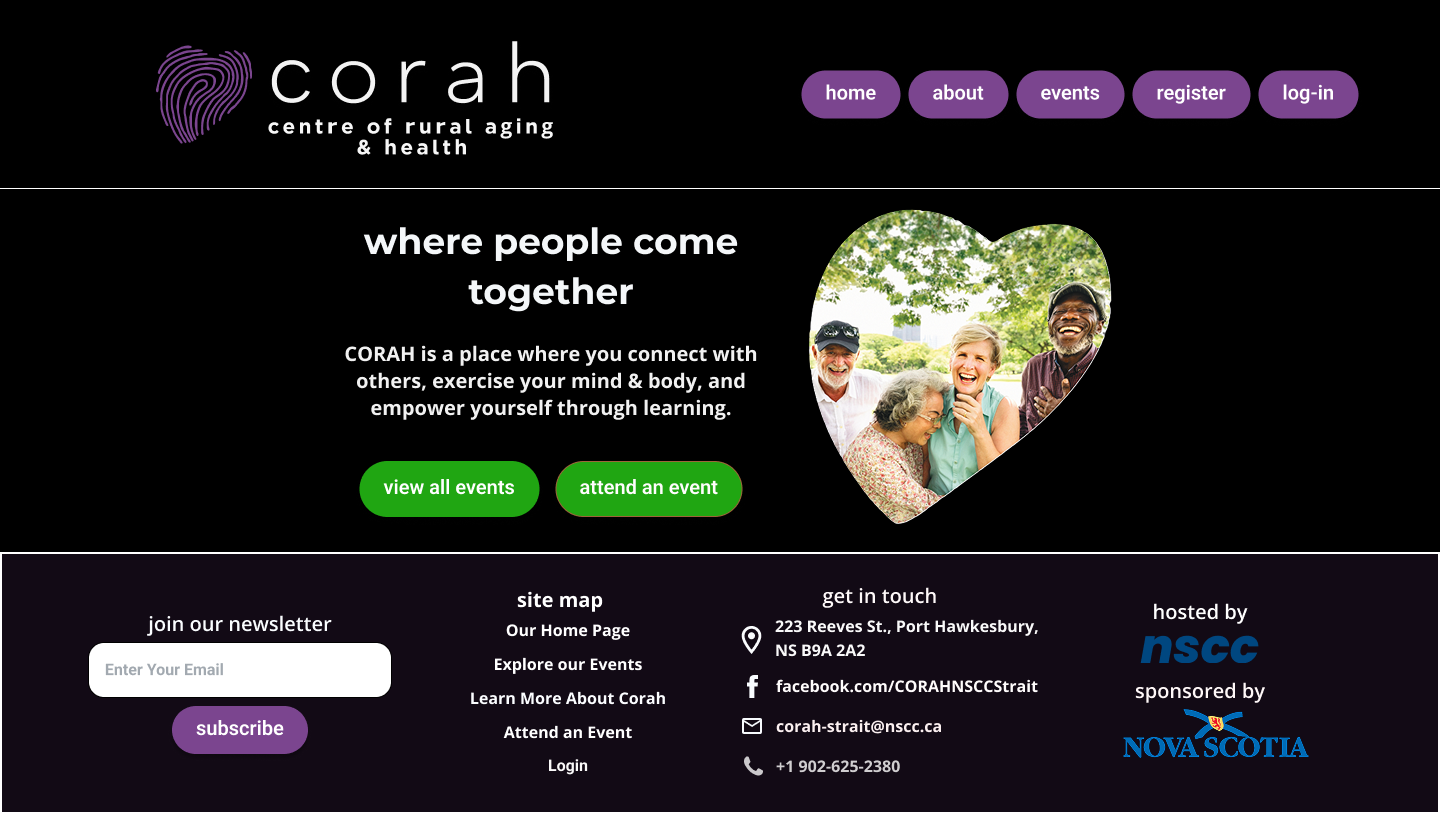
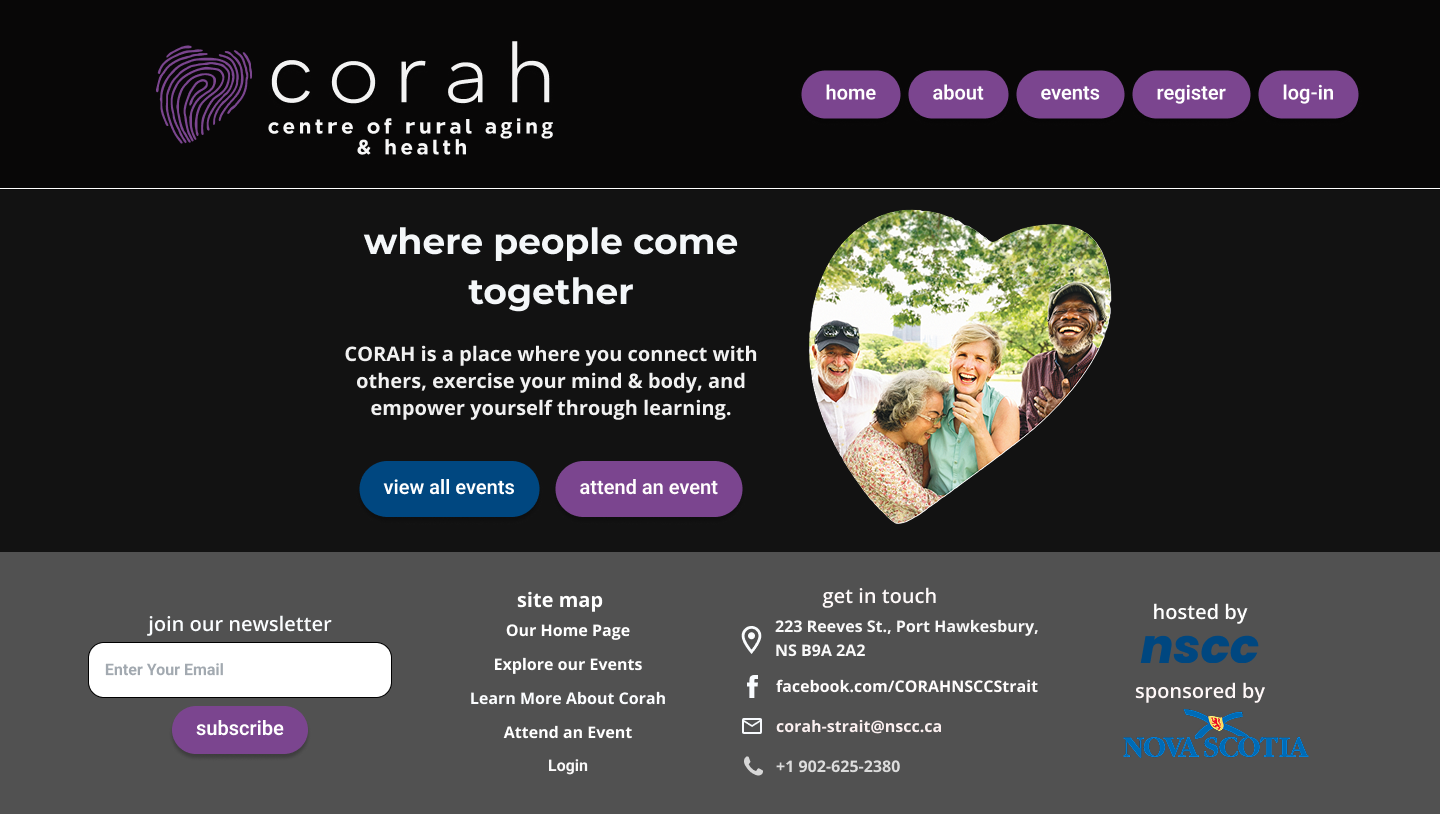
update

diff --git a/corah_website/index.html b/corah_website/index.html
@@ -8,23 +8,22 @@
         <link rel="stylesheet" href="styles.css">
     </head>
     <body>
+        <!-- Step 2 Use semantic elements to set up the sections -->
         <header class="header-container">
             <div class="header-inner-container">
-            <!-- A Block Element-->
-            <div class="logo-container">
-                <!--Inline-Block -->
-                <img src="images/logo-image-01.svg" alt="Corah Fingerprint Logo">
-                <img src="images/logo-image-02.png" alt="Centre for rural aging and health">
-            </div>
-            <!-- A Block Element-->
-            <nav class="nav-container">
-                <!--Inline-Block -->
-                <button class="nav-button">Home</button>
-                <button class="nav-button">About</button>
-                <button class="nav-button">Event</button>
-                <button class="nav-button">Register</button>
-                <button class="nav-button">Login</button>
-            </nav>
+                <!-- Step 3 Setup Logo Area -->
+                <div class="logo-container">
+                    <img class="logo-brand" src="icons/corah-brand-logo.svg" alt="Corah Thumbprint Logo">
+                    <img class="logo-wordmark" src="icons/corah-brand-wordmark-dark.svg" alt="Corah Thumbprint Logo">
+                </div>
+                <!-- Step 4 Setup Nav Area -->
+                <nav class="nav-container">
+                    <button class="nav-button" type="button">home</button>
+                    <button class="nav-button" type="button">about</button>
+                    <button class="nav-button" type="button">events</button>
+                    <button class="nav-button" type="button">register</button>
+                    <button class="nav-button" type="button">log-in</button>
+                </nav>
             </div>
         </header>
         <main></main>

diff --git a/corah_website/styles.css b/corah_website/styles.css
@@ -1,30 +1,79 @@
+
+html {
+  font-size: 19px; /* or 62.5% for easier rem math */
+  scroll-behavior: smooth;
+  height: 100%;
+  overflow-x: hidden;
+  background-color: black;
+  /* To Do - Learn about Box Sizing */
+  /* box-sizing: border-box; */
+}
+
+body {
+    font-family: 'Open Sans';
+}
+
+h1,h2,h3,h4,h5,h6 {
+    font-family: 'Montserrat';
+}
+
 .header-container {
-    display: flex;
-    align-items: center;
-    border-style: solid;
-    flex-wrap: wrap;
-    justify-content: center;
+    
 }
 
 .header-inner-container {
     display: flex;
-    border-style: solid;
     flex-wrap: wrap;
-    justify-content: space-between;
-}
-
-.logo-container {
-    display: inline-block;
-    border-style: solid;
-    justify-content: center;
-
+    justify-content:space-around;
+    align-items: center;
+    
 }
 
 .nav-container {
-    display: inline-block;
-    border-style: solid;
+    display: flex;
+    flex-wrap: wrap;
     justify-content: center;
-    
-    
+    gap: 8px;
+    padding: 16px;
 }
+
+.logo-container {
+    display: flex;
+    flex-wrap: wrap;
+    justify-content: center;
+    gap: 8px;
+    padding: 16px;
+}
+
+button {
+    font-family: 'Open Sans';
+    font-size: clamp(16px, 2vw, 22px);
+    color: aliceblue;
+    font-weight: 600;
+    padding-left: 24px;
+    padding-right: 24px;
+    padding-top: 8px;
+    padding-bottom: 12px;
+    border-radius: 32px;
+    border: none;
+    box-shadow: 4px 4px 10px rgba(0, 0, 0, 0.3);
+}
+
+.logo-wordmark 
+{
+  max-width: 100%;
+  height: auto;
+  width: clamp(180px, 20vw, 280px); /* responsive scaling */
+}
+
+
+.nav-button {
+    background-color: #7B458F;
+}
+
+.hero-button-01 {
+
+}
+
+
 
